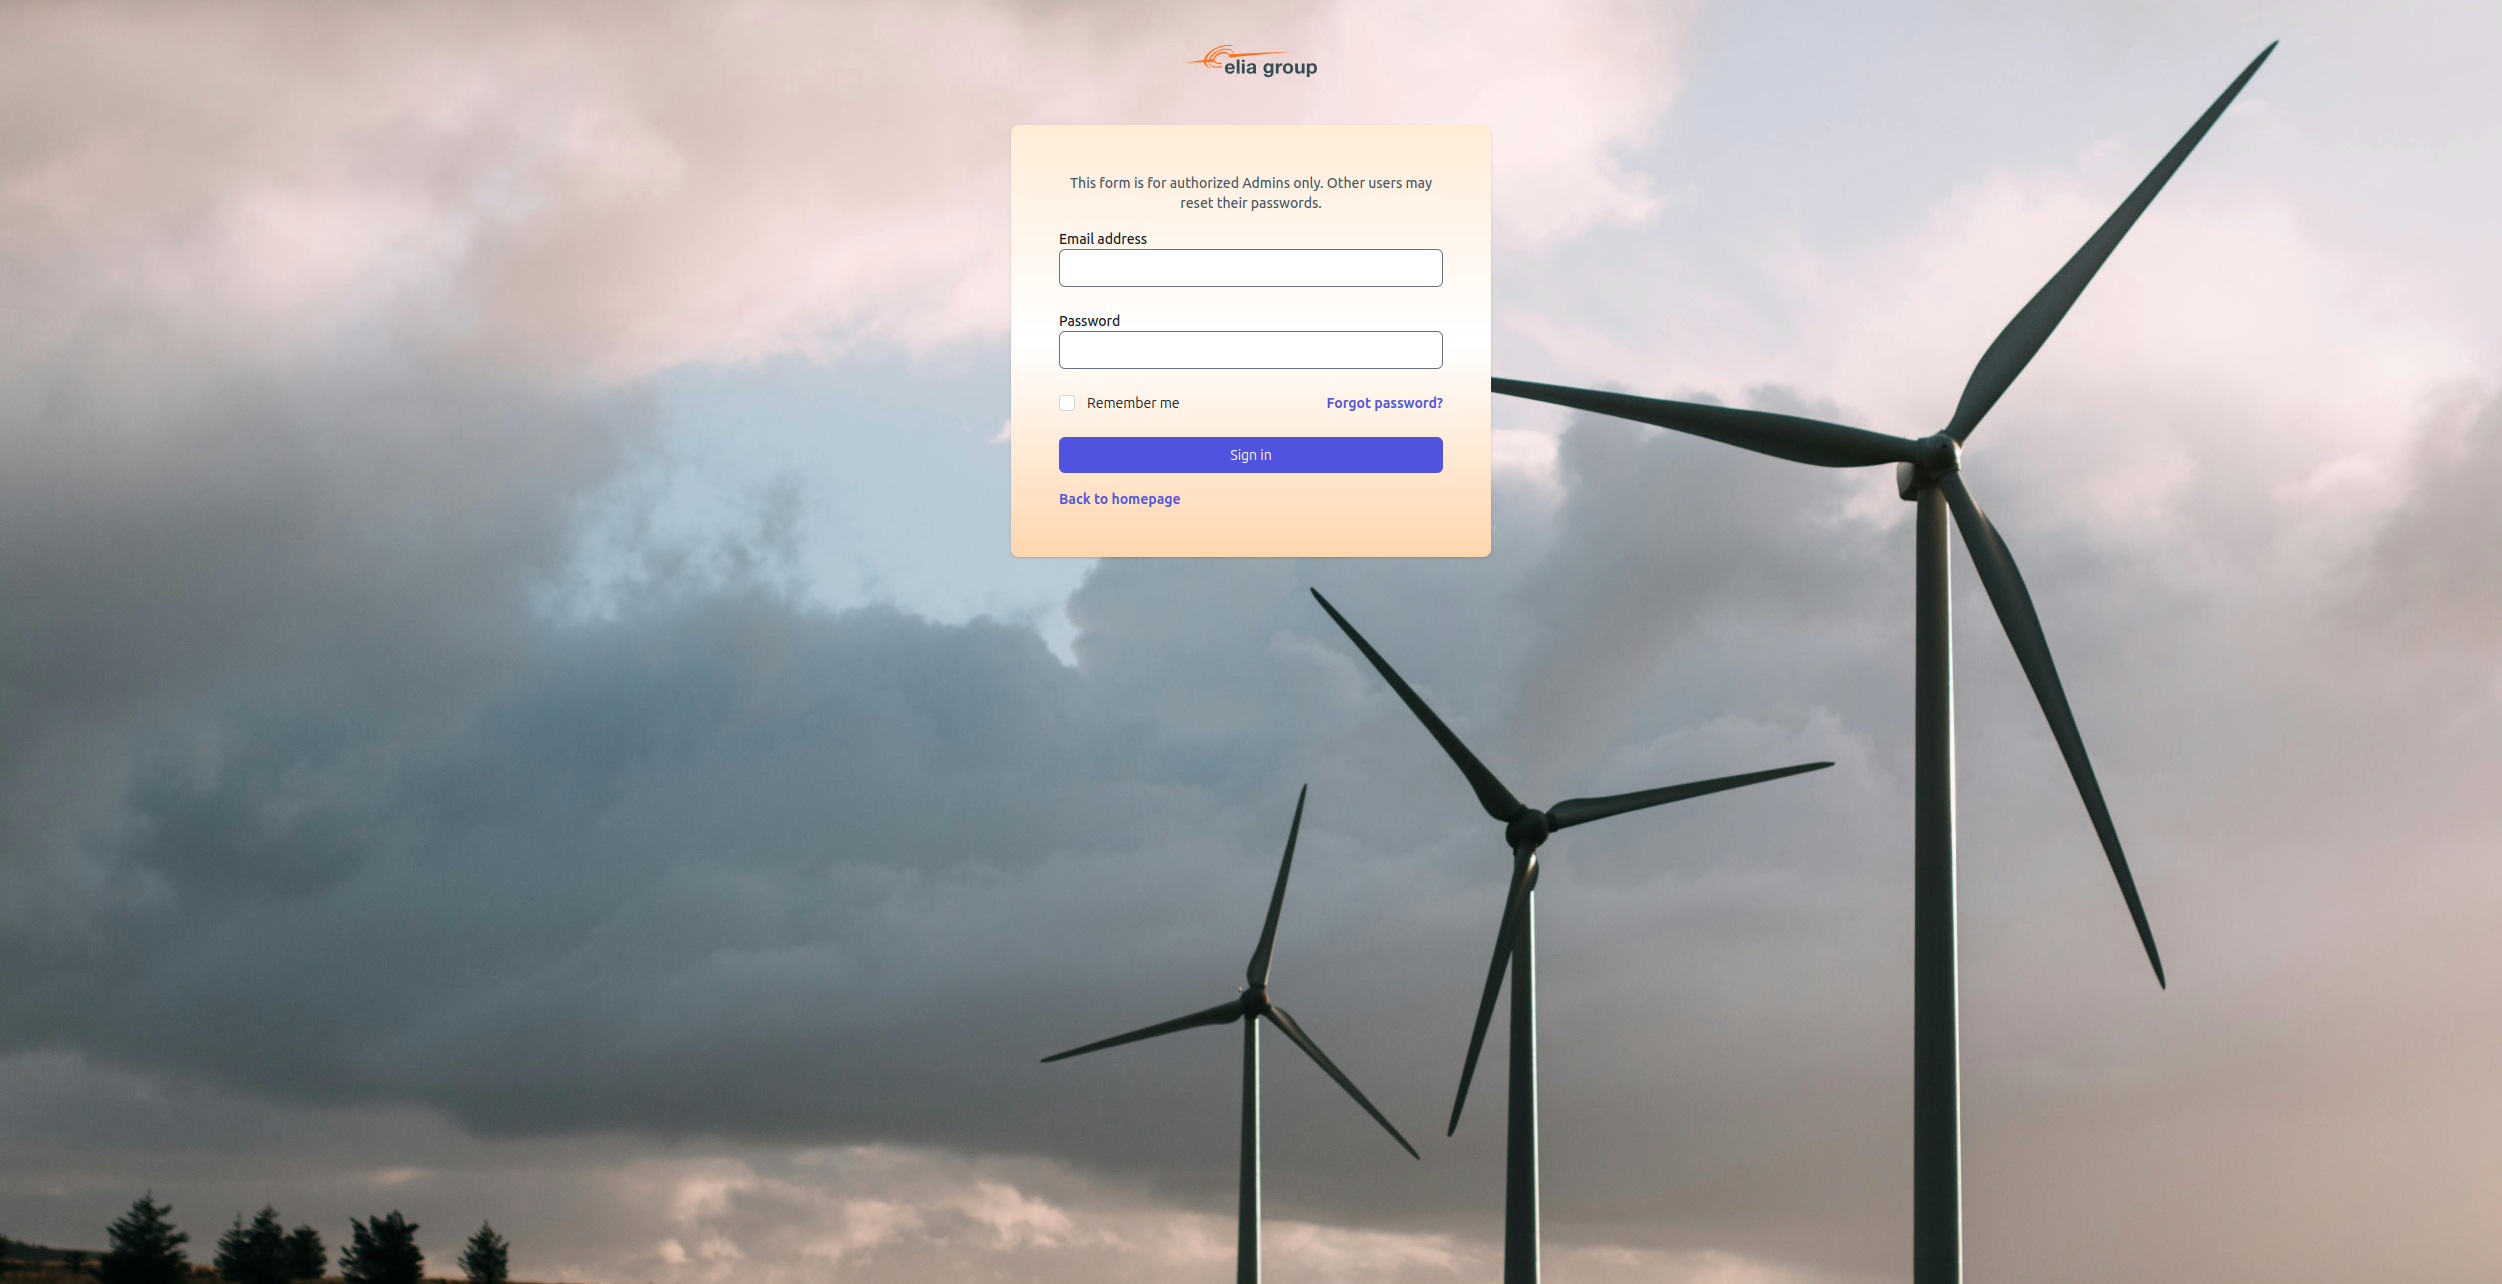
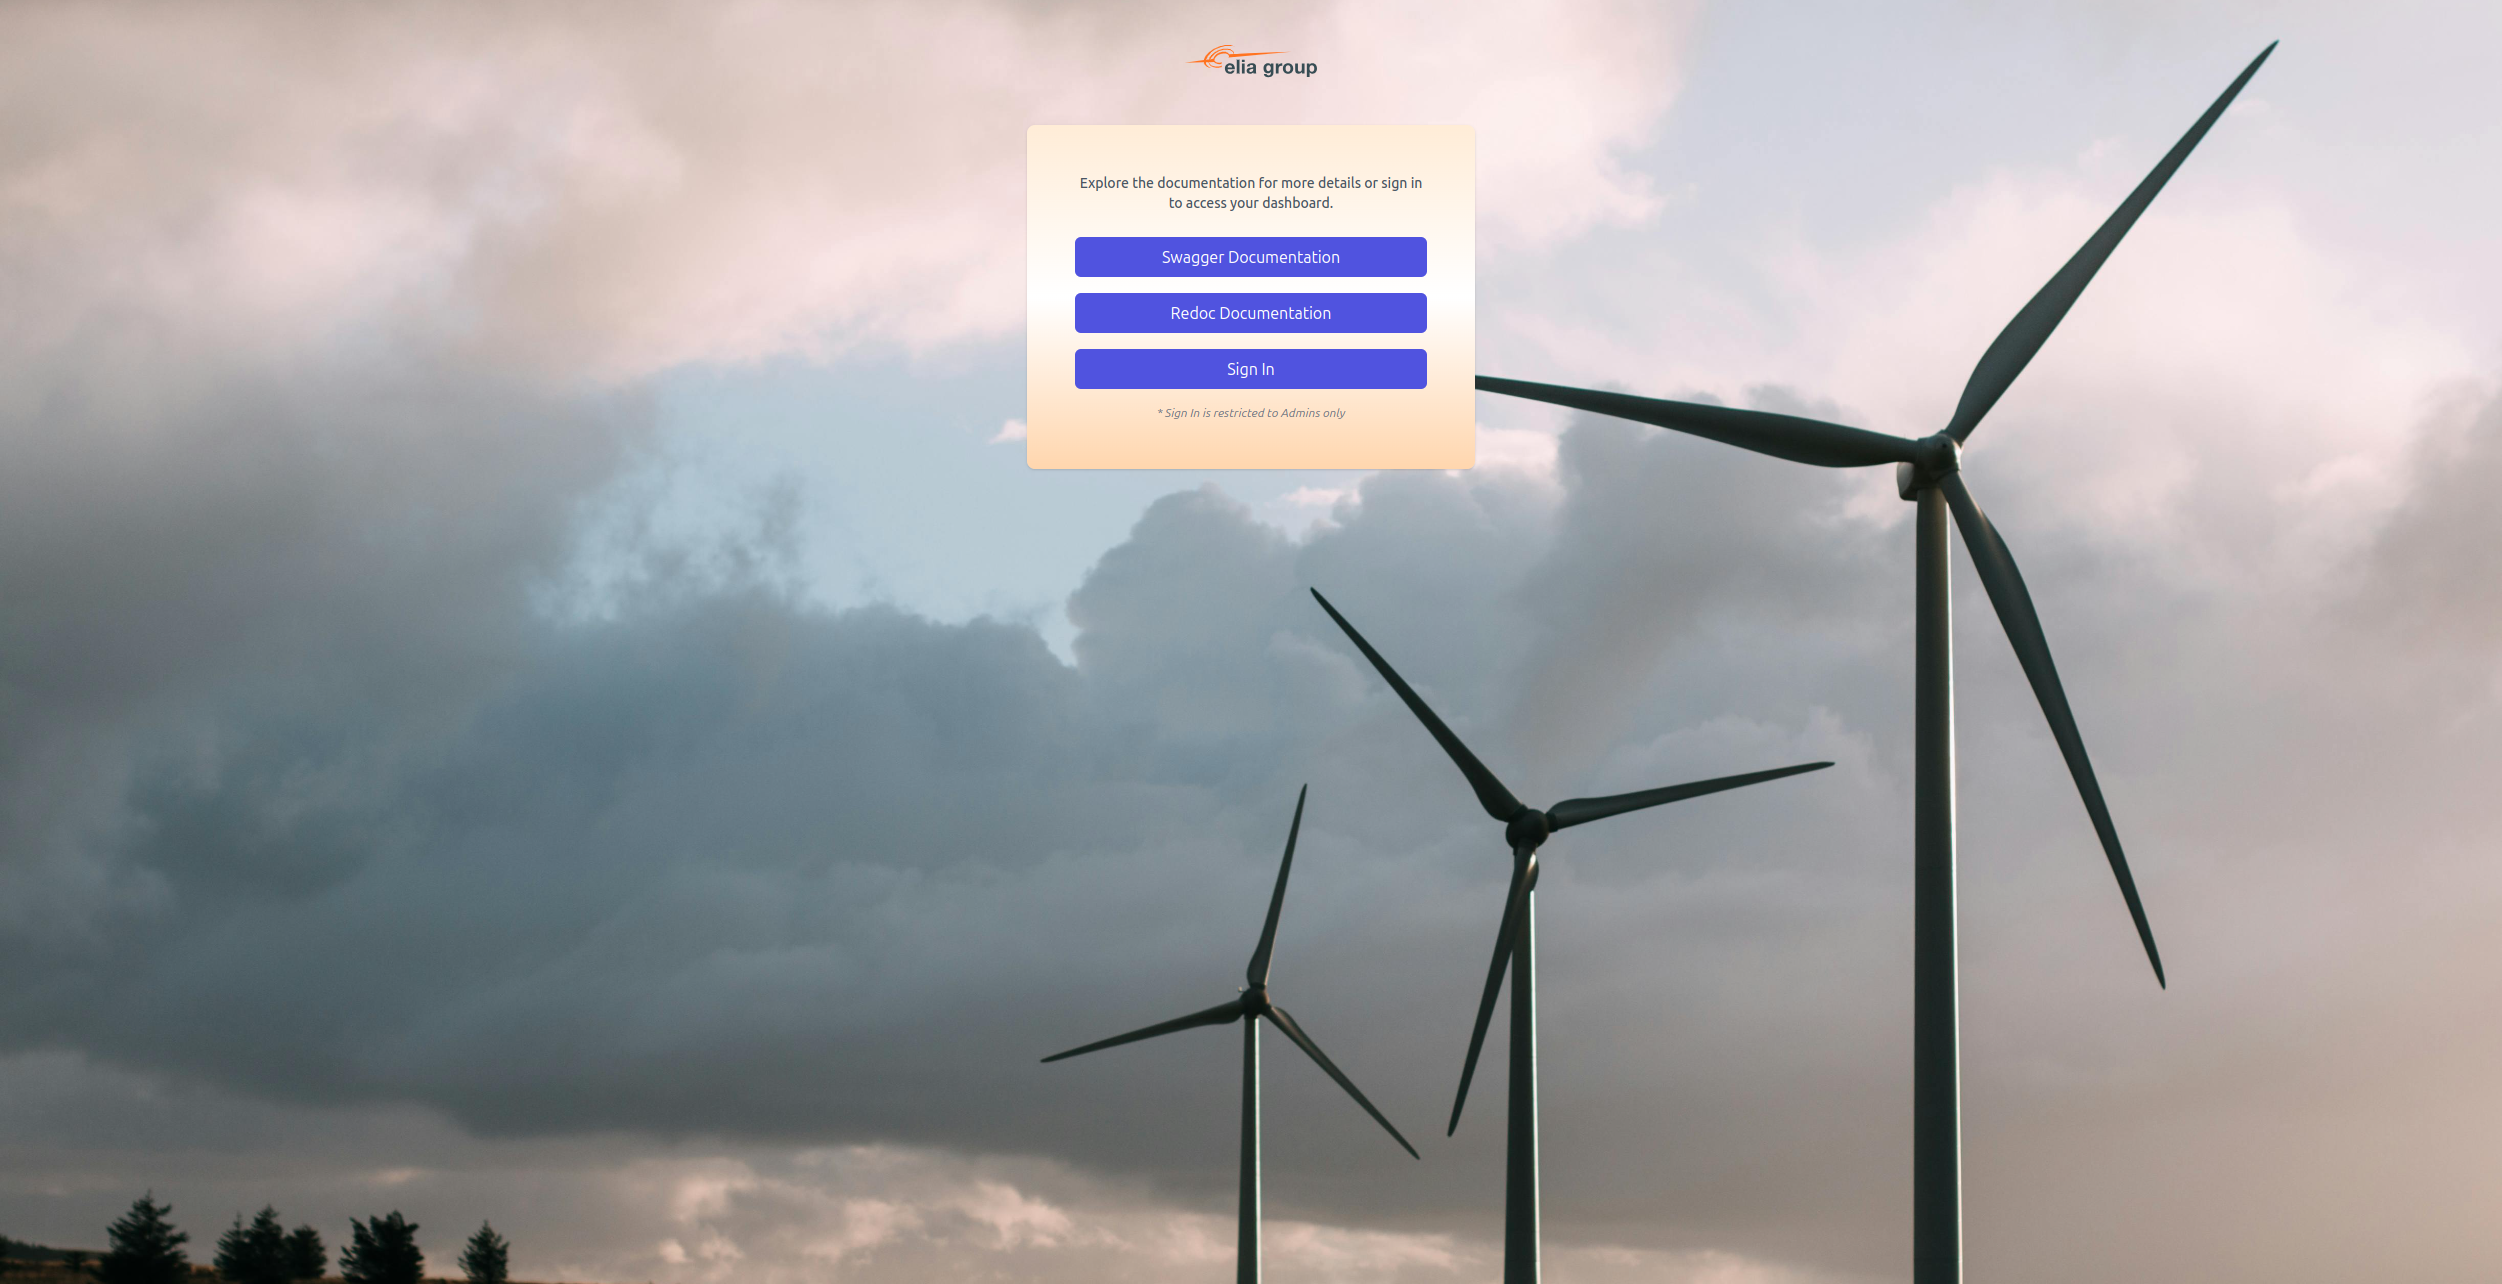
update readme

Changed region(s): [[0.4053, 0.1246, 0.6235, 0.4361]]

diff --git a/frontend/README.md b/frontend/README.md
@@ -13,14 +13,24 @@ Docker might still be using cached layers or containers. To ensure everything is
 
 ### Home Page
 
-![img_1.png](public/homepage.png)
+![img.png](public/homepage.png)
 
+- The home page is the first page that the user sees when they visit the website. 
+- It contains links to documentation and the login page (for admins only).
 ### Login Page
 ![img.png](public/signing.png)
 
+- The login page is where admins can sign in.
+- All users can also click on the "Forgot Password" link to reset their password.
+- 
 ### Register Page
 
 ![img_1.png](public/register_page.png)
 
+- The register page is where new users can sign up for an account. A link invitation only.
+
 ### Dashboard
 ![img.png](public/dashboard.png)
+
+- The dashboard is where admins can view the progress and activity of the users. 
+- Admins can also invite new users to the platform.
